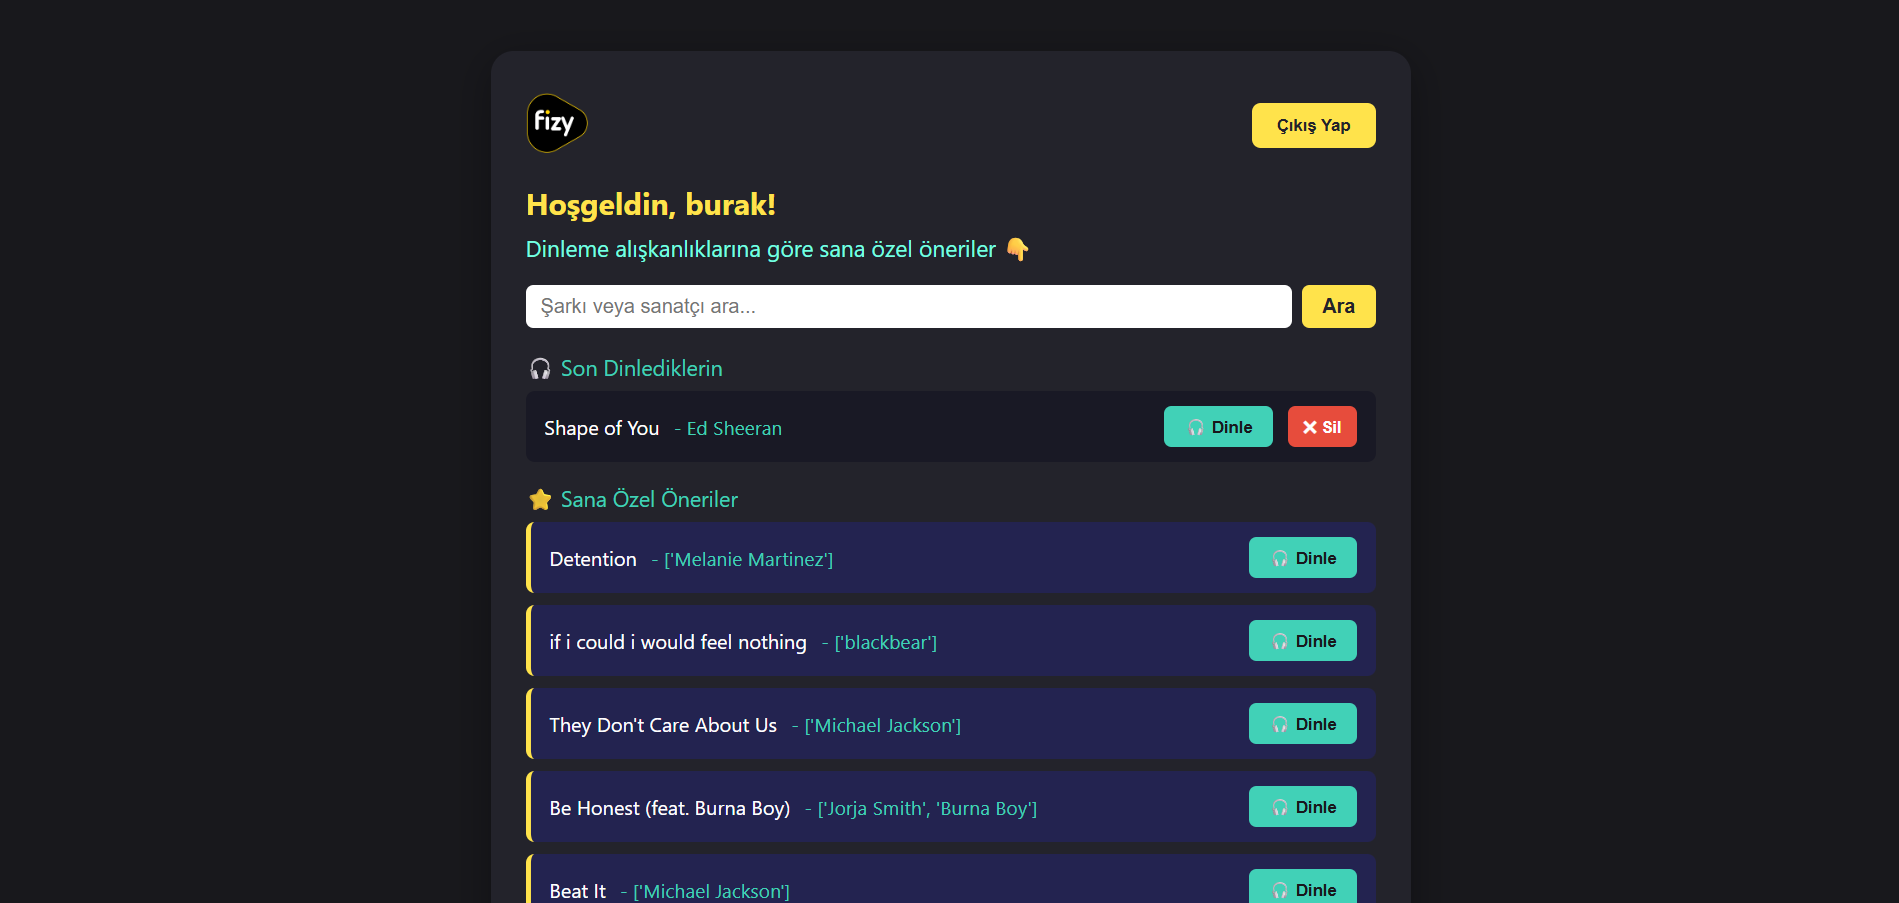
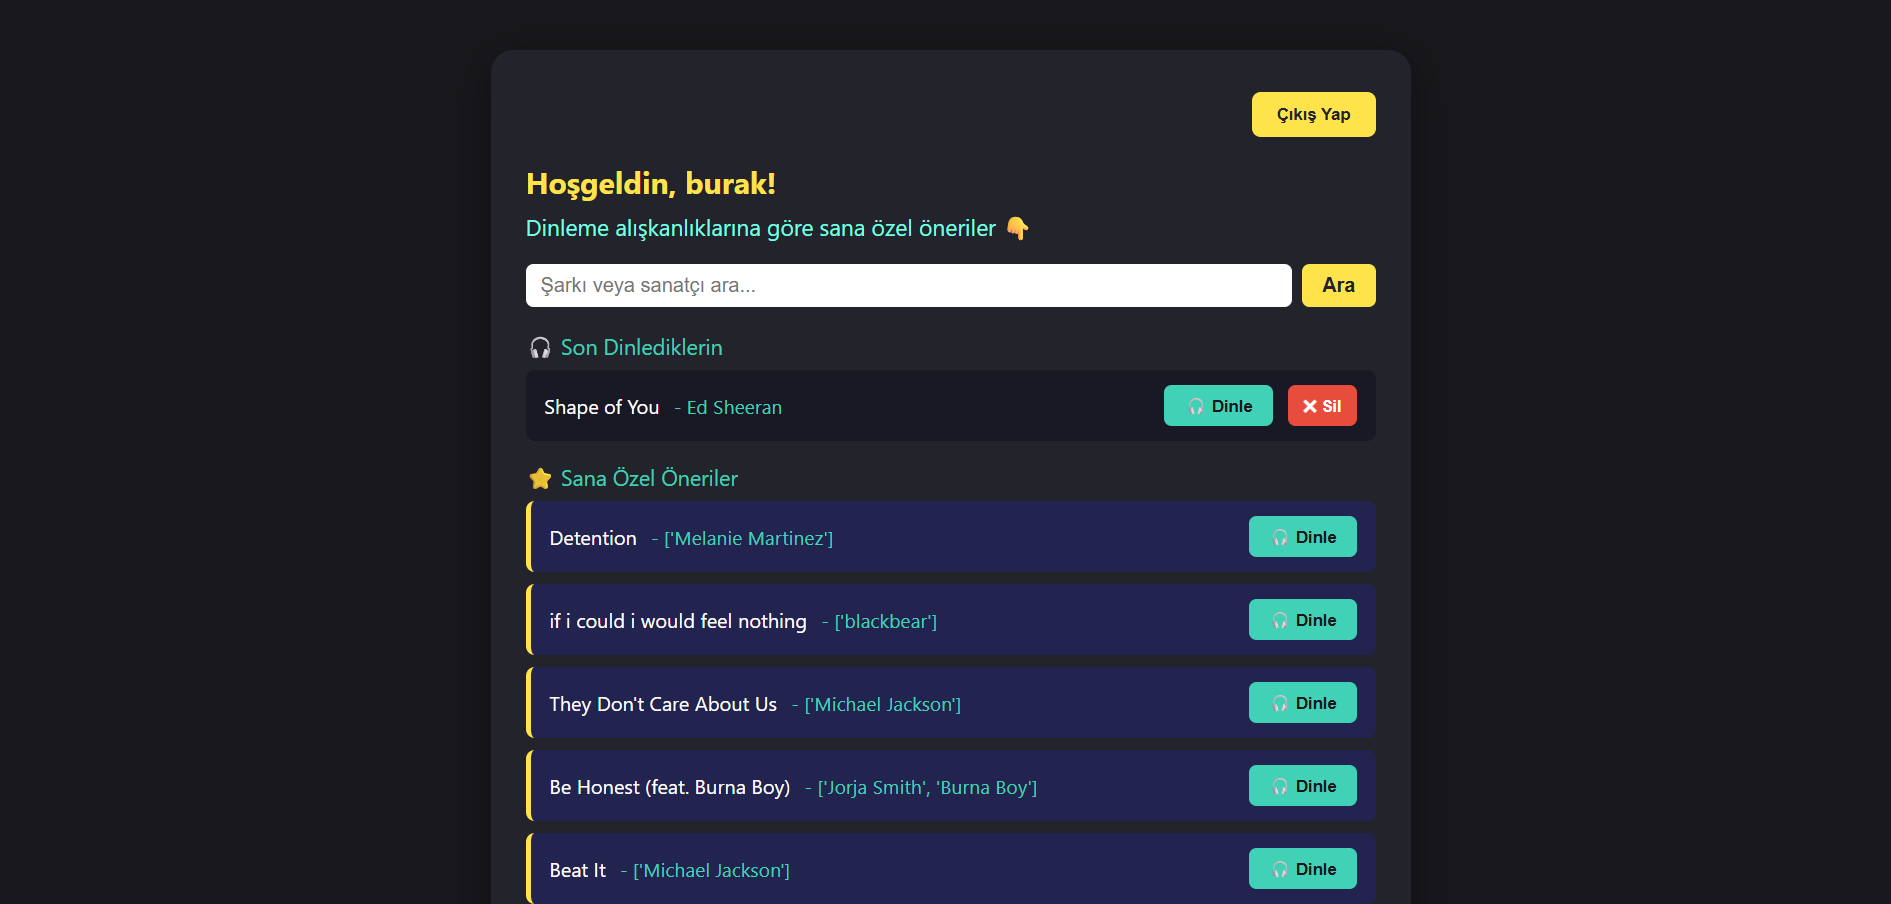
edited

Changed region(s): [[0.2496, 0.093, 0.7488, 1.0], [0.5928, 0.4031, 0.7176, 0.4961], [0.6552, 0.093, 0.7488, 0.186]]

diff --git a/templates/index.html b/templates/index.html
@@ -205,9 +205,6 @@
 </head>
 <body>
     <div class="container">
-        <div style="display:flex; justify-content:center;">
-            <img src="{{ url_for('static', filename='logo.png') }}" alt="Fizy Logo" style="height:62px; margin-bottom:14px; filter: drop-shadow(0 0 3px #ffe34b);">
-        </div>
         <h1>Akıllı Şarkı Öneri Sistemi</h1>
         <form method="post" onsubmit="return showLoadingAndSubmit();">
             <label>Şarkı Adı:</label>
